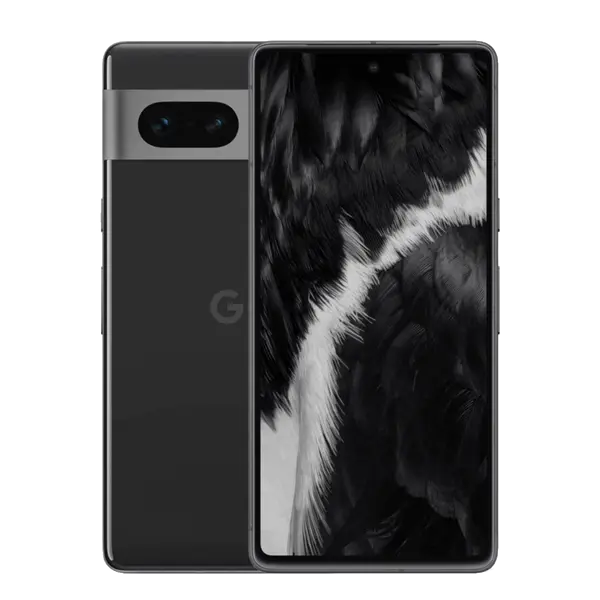
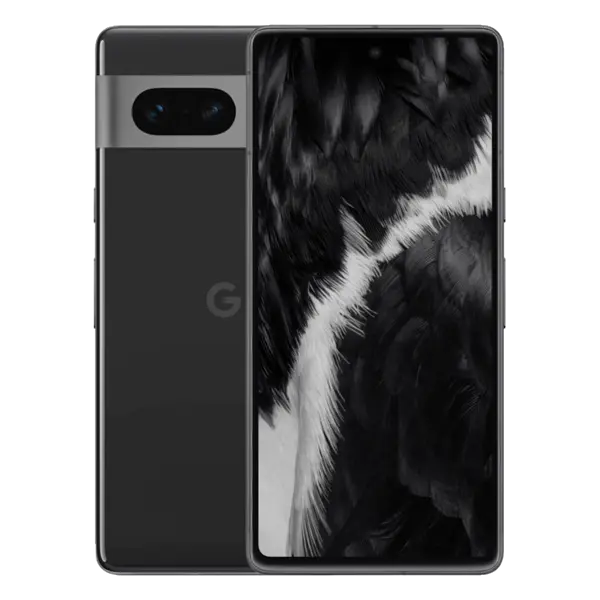
Add real photos for SPEX 8a, 9a and 10 Pro; normalize all phone photos
All phone photos are AI-upscaled, background-removed and placed on the same
1200px canvas so the lineup is consistent. Masters kept in brand-assets/products.

Claude-Session: https://claude.ai/code/session_01Qmjx2RPQ5QHgX4v2zFmpgj

Changed region(s): [[0.15, 0.03, 0.87, 0.96], [0.75, 0.87, 0.78, 0.9], [0.75, 0.6, 0.78, 0.63]]

diff --git a/website/src/data/phones.ts b/website/src/data/phones.ts
@@ -37,6 +37,8 @@ export const phones: PhoneModel[] = [
     tagline: 'Balanced. Configured.',
     description: 'A balanced everyday device with a newer hardware generation and the full SPEX privacy configuration.',
     finish: 'slate',
+    image: '/images/phones/pixel-8a.webp',
+    imageSrcset: '/images/phones/pixel-8a.webp 1x, /images/phones/pixel-8a@2x.webp 2x',
   },
   {
     id: 'spex-9a',
@@ -45,6 +47,8 @@ export const phones: PhoneModel[] = [
     tagline: 'More generation. Same discipline.',
     description: 'A newer generation for customers who want extra headroom with the same privacy-first setup.',
     finish: 'obsidian',
+    image: '/images/phones/pixel-9a.webp',
+    imageSrcset: '/images/phones/pixel-9a.webp 1x, /images/phones/pixel-9a@2x.webp 2x',
   },
   {
     id: 'spex-10a',
@@ -62,6 +66,8 @@ export const phones: PhoneModel[] = [
     tagline: 'The flagship SPEX.',
     description: 'The most capable SPEX device — premium hardware and display, configured for demanding private use.',
     finish: 'titanium',
+    image: '/images/phones/pixel-10-pro.webp',
+    imageSrcset: '/images/phones/pixel-10-pro.webp 1x, /images/phones/pixel-10-pro@2x.webp 2x',
     badge: 'Flagship',
   },
 ];
